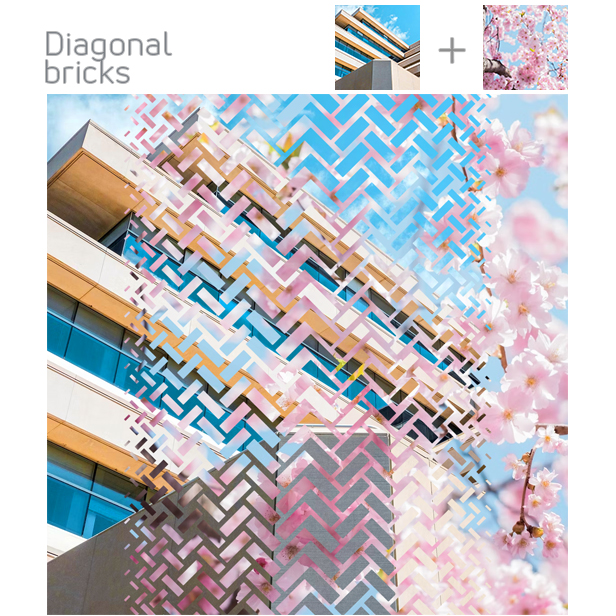
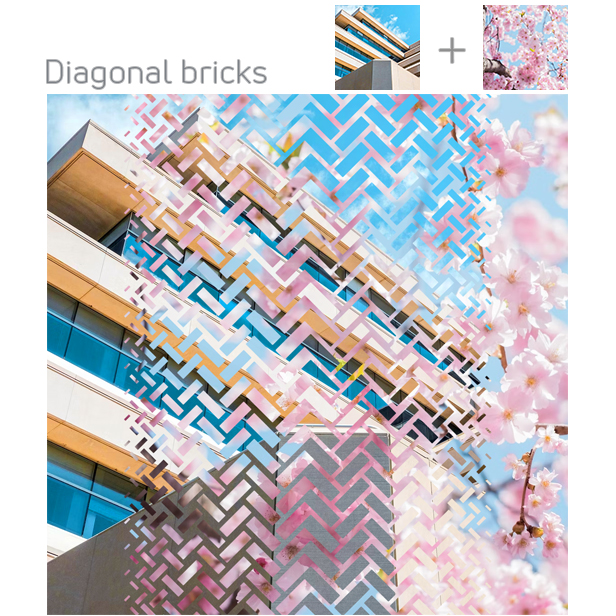
updt

Changed region(s): [[0.0617, 0.0308, 0.4318, 0.1542]]

diff --git a/wipe1_html/index.html b/wipe1_html/index.html
@@ -12,6 +12,7 @@
 
 
 <div>
+<h3>Merge two images in a fun way with a stylish geometric sweep gradient</h3>
 			<ul  style="color:#bababa; margin-left:30px;">
 				<li>Easy to use: just 1 Click actions!</li>
 				<li>No mask or selection needed: place the images in different layers, click and hide the top layer, choose the action and play it</li>
@@ -68,8 +69,6 @@
 
 
 <img src="https://raw.githubusercontent.com/akidaniel/almacen/gh-pages/wipe_html/images/blank.jpg" alt="blank">
-<img src="https://raw.githubusercontent.com/akidaniel/almacen/gh-pages/wipe_html/images/blank.jpg" alt="blank">
-<img src="https://raw.githubusercontent.com/akidaniel/almacen/gh-pages/wipe_html/images/blank.jpg" alt="blank">
 
 </p>
 
@@ -111,10 +110,7 @@
 <p><img src="https://raw.githubusercontent.com/akidaniel/almacen/gh-pages/wipe1_html/images/invert.gif" alt="Inverting mask">
 </p>
 
-<h3 style="color:#054F6D">Video link:</h3>
 
-<p><a href="https://youtu.be/8p-FpgQHXxU"><img src="https://raw.githubusercontent.com/akidaniel/almacen/gh-pages/wipe3_html/images/video.jpg" alt="video" ></a>
-</p>
 <p style="color:#bababa; ">The example images used in this preview are from <a href="https://unsplash.com/">unsplash.com</a>, not included</p>
 </div>
 
